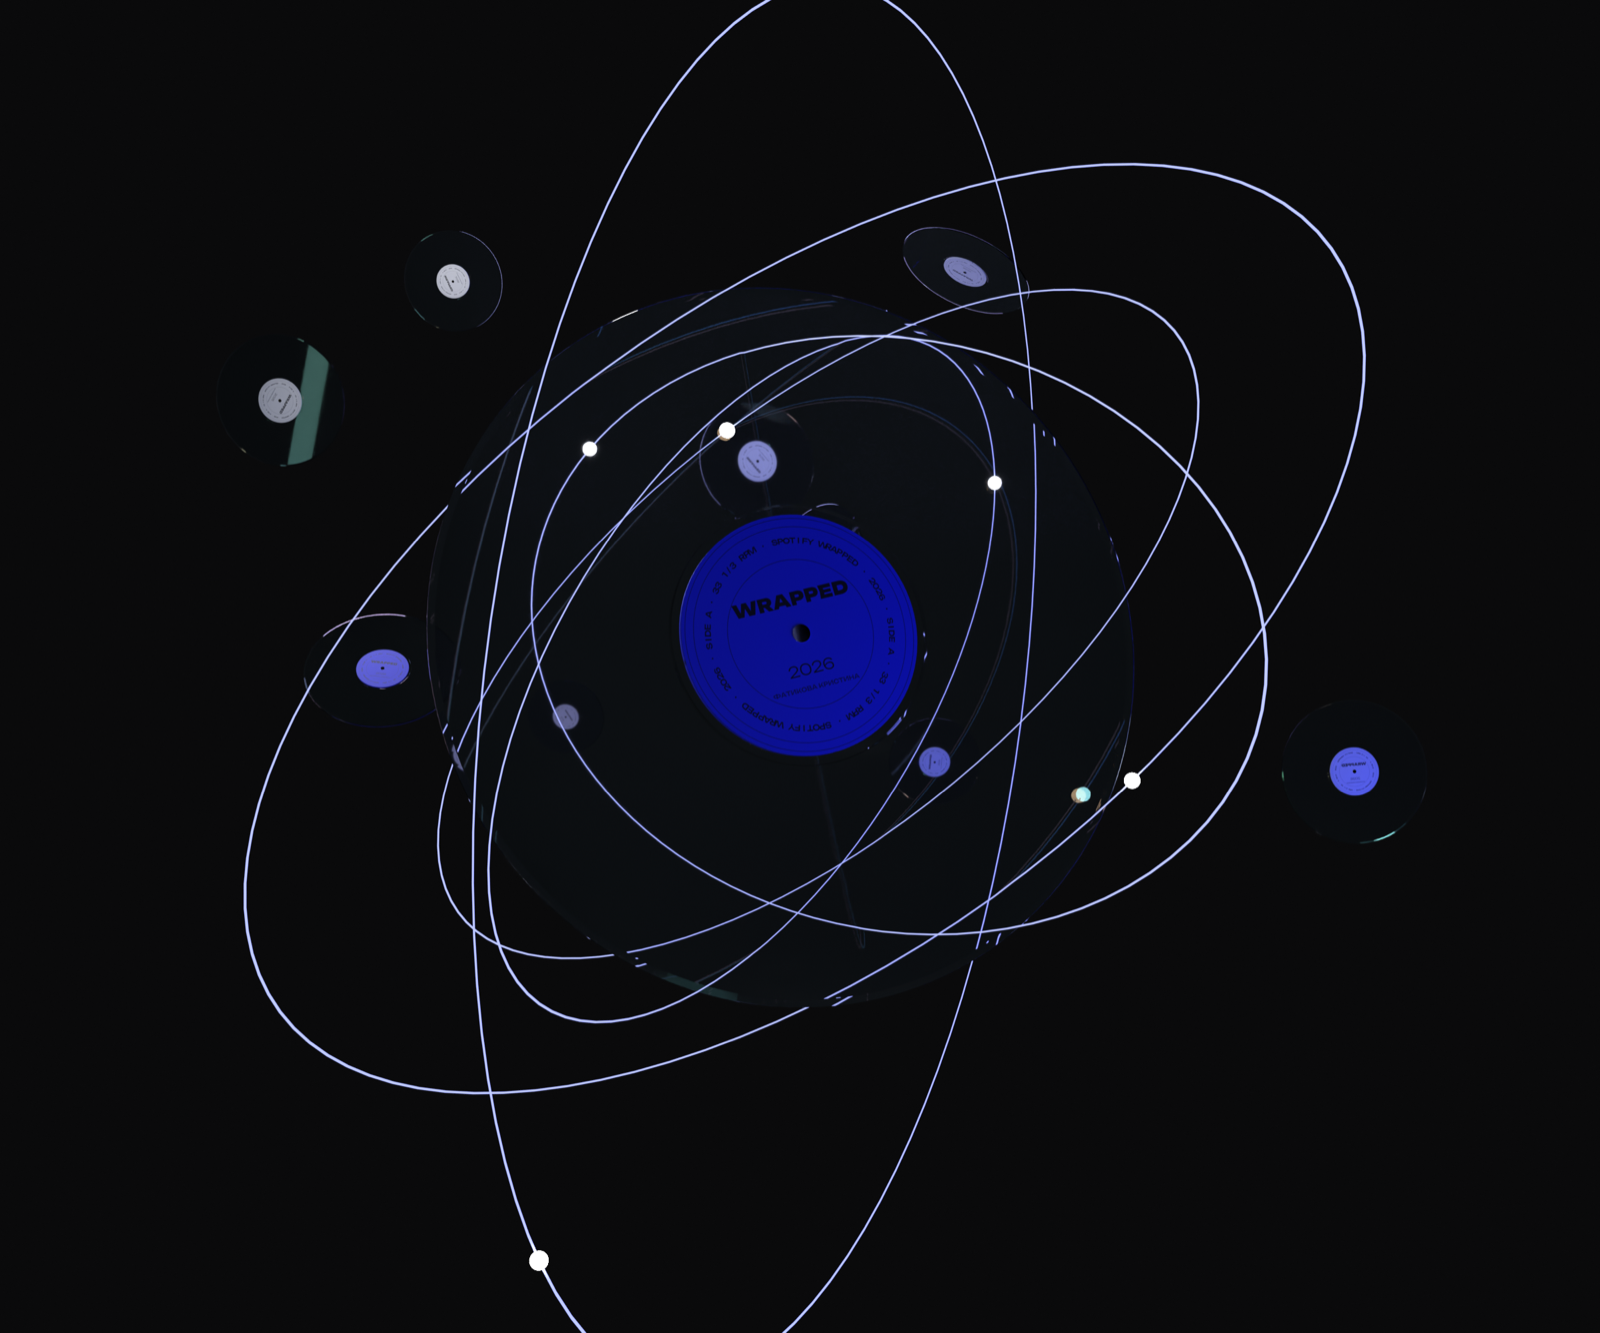
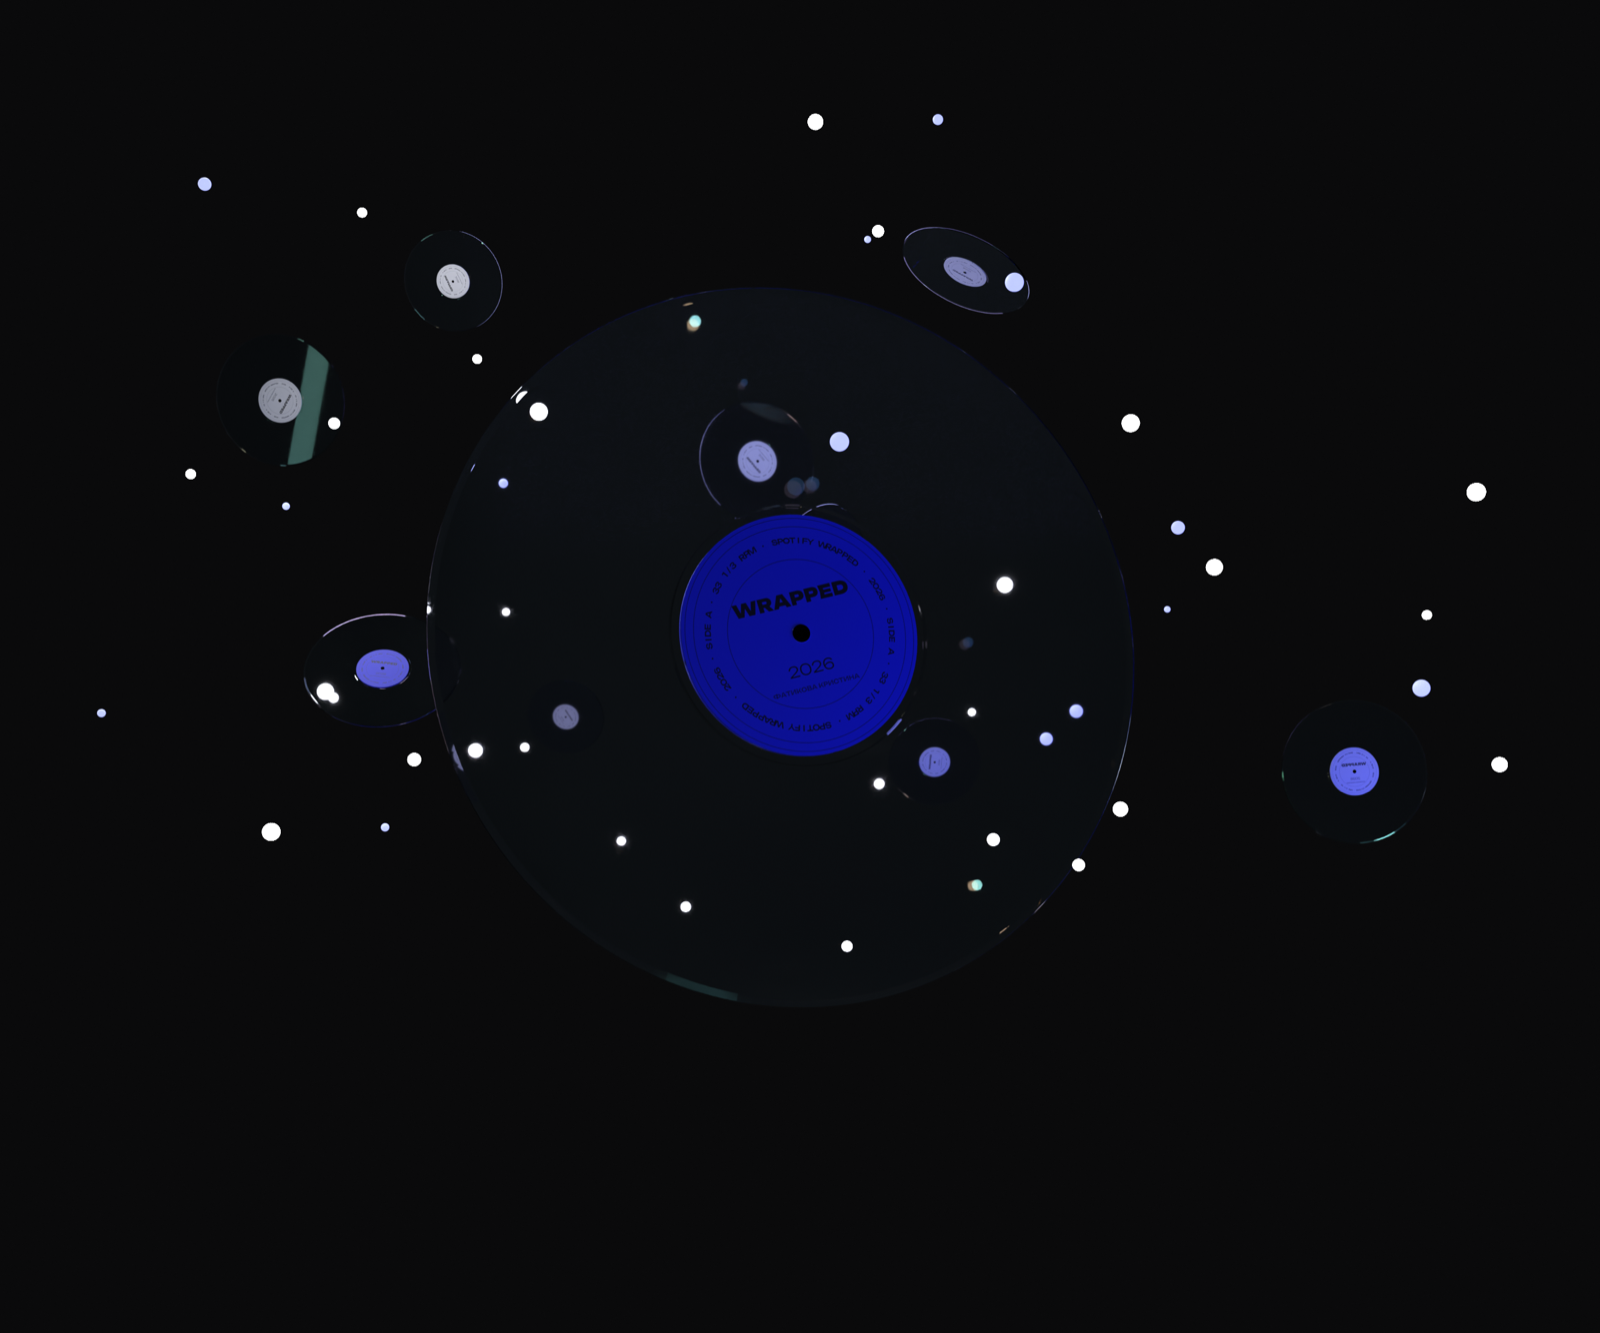
Final: drop orbit lines, more glowing points; livelier drifting cassettes and records

diff --git a/js/chapters/c08_final.js b/js/chapters/c08_final.js
@@ -16,20 +16,17 @@ export class Final extends Chapter {
       return { m, a: r() * 6.28, rx: 0.75 + r() * 0.55, ry: 0.3 + r() * 0.4, z: -1 - r() * 3, s: 0.08 + r() * 0.12, w: (0.12 + r() * 0.2) * (i % 2 ? 1 : -1), q: new THREE.Euler(r() * 6, r() * 6, 0), sp: 0.4 + r() * 1.2 };
     });
     this.spin = 0; this.turn = 0;
-    // memory: glowing orbit threads with sparks running along them
+    // memory: glowing points drifting on invisible orbits around the record
     const dot = document.createElement('canvas'); dot.width = dot.height = 64;
     const g = dot.getContext('2d'), gr = g.createRadialGradient(32, 32, 0, 32, 32, 32);
     gr.addColorStop(0, 'rgba(255,255,255,1)'); gr.addColorStop(0.25, 'rgba(200,206,255,.6)'); gr.addColorStop(1, 'rgba(169,178,255,0)');
     g.fillStyle = gr; g.fillRect(0, 0, 64, 64);
     const glow = new THREE.CanvasTexture(dot);
-    this.threads = Array.from({ length: 5 }, (_, i) => {
-      const curve = new THREE.EllipseCurve(0, 0, 1.25 + i * 0.16, 0.55 + i * 0.1, 0, Math.PI * 2);
-      const pts = curve.getPoints(160).map(p => new THREE.Vector3(p.x, 0, p.y));
-      const line = new THREE.Mesh(new THREE.TubeGeometry(new THREE.CatmullRomCurve3(pts, true), 220, 0.0035, 6, true), new THREE.MeshBasicMaterial({ color: 0xa9b2ff, transparent: true, opacity: 0.45, blending: THREE.AdditiveBlending, depthWrite: false }));
+    this.threads = Array.from({ length: 40 }, (_, i) => {
       const spark = new THREE.Mesh(new THREE.SphereGeometry(0.018, 16, 12), new THREE.MeshBasicMaterial({ color: 0xffffff }));
-      const halo = new THREE.Sprite(new THREE.SpriteMaterial({ map: glow, color: 0xc9ceff, transparent: true, blending: THREE.AdditiveBlending, depthWrite: false })); halo.scale.setScalar(0.16);
-      const grp = new THREE.Group(); grp.add(line, spark, halo); grp.rotation.set(0.3 + i * 0.35, i * 1.1, (i - 2) * 0.25); this.scene.add(grp);
-      return { grp, spark, halo, rx: 1.25 + i * 0.16, rz: 0.55 + i * 0.1, sp: (0.25 + i * 0.07) * (i % 2 ? 1 : -1), ph: i * 1.3 };
+      const halo = new THREE.Sprite(new THREE.SpriteMaterial({ map: glow, color: 0xc9ceff, transparent: true, blending: THREE.AdditiveBlending, depthWrite: false })); halo.scale.setScalar(0.1 + r() * 0.14);
+      const grp = new THREE.Group(); grp.add(spark, halo); grp.rotation.set(r() * 3, r() * 6.28, (r() - 0.5) * 1.2); spark.scale.setScalar(0.5 + r() * 0.9); this.scene.add(grp);
+      return { grp, spark, halo, rx: 0.9 + r() * 1.1, rz: 0.4 + r() * 0.8, sp: (0.15 + r() * 0.35) * (i % 2 ? 1 : -1), ph: r() * 6.28 };
     });
     this.last = [...el.querySelectorAll('.t')].find(t => t.textContent === 'ПАМЯТЬ');
   }
@@ -55,7 +52,7 @@ export class Final extends Chapter {
       th.grp.position.set(b.x, b.y, 0); th.grp.scale.setScalar(R * 1.35 * v);
       th.grp.rotation.y += 0.0015 * Math.sign(th.sp);
       const a = th.ph + T * th.sp; th.spark.position.set(Math.cos(a) * th.rx, 0, Math.sin(a) * th.rz); th.halo.position.copy(th.spark.position);
-      th.halo.material.opacity = 0.6 + Math.sin(T * 3 + th.ph) * 0.4;
+      th.halo.material.opacity = 0.55 + Math.sin(T * 2.4 + th.ph * 3) * 0.45;
     });
     if (this.last) this.last.style.transform = `translate3d(0, ${(1 - p) * 40}px, 0)`;
   }

diff --git a/js/chapters/c03_data.js b/js/chapters/c03_data.js
@@ -62,10 +62,10 @@ export class Data extends Chapter {
         if (f.key !== key) continue;
         const k = clamp((T - f.t0) / 1.2), e2 = easeInOut(k), arc = Math.sin(k * Math.PI);
         f.at.lerpVectors(f.from, f.to, e2);
-        const dx = Math.sin(T * f.sp + f.ph) * 0.025, dy = Math.cos(T * f.sp * 0.8 + f.ph * 1.3) * 0.04;
+        const dx = Math.sin(T * f.sp * 1.6 + f.ph) * 0.06 + Math.sin(T * 0.23 + f.ph * 2) * 0.03, dy = Math.cos(T * f.sp * 1.3 + f.ph * 1.3) * 0.09;
         const S = f.size * U * (key === 'tracks' ? 120 : 110);
         f.m.position.set((f.at.x + dx) * vp.w, c.y + (f.at.y + dy) * H, f.z * S + arc * S * 2.5);
-        this.e.set(f.e.x + Math.sin(T * f.w + f.ph) * 0.25, key === 'artists' ? f.e.y + T * f.w * 1.5 : f.e.y + Math.sin(T * f.w * 0.7) * 0.3, f.e.z + Math.sin(T * f.w * 0.5 + f.ph) * 0.2, 'XZY'); f.m.quaternion.setFromEuler(this.e);
+        this.e.set(f.e.x + Math.sin(T * f.w * 1.4 + f.ph) * 0.45, key === 'artists' ? f.e.y + T * f.w * 2.2 : f.e.y + Math.sin(T * f.w) * 0.5, f.e.z + Math.sin(T * f.w * 0.8 + f.ph) * 0.4, 'XZY'); f.m.quaternion.setFromEuler(this.e);
         if (k > 0 && k < 1) { this.qf.setFromAxisAngle(f.flip, e2 * Math.PI * 2); f.m.quaternion.premultiply(this.qf); }
         f.m.scale.setScalar(Math.max(S * v, 1e-4));
       }

diff --git a/index.html b/index.html
@@ -19,12 +19,12 @@
   "./js/chapters/c00_hero.js": "./js/chapters/c00_hero.js?v=d3c09ff1",
   "./js/chapters/c01_ring.js": "./js/chapters/c01_ring.js?v=22615780",
   "./js/chapters/c02_history.js": "./js/chapters/c02_history.js?v=cf9b9a67",
-  "./js/chapters/c03_data.js": "./js/chapters/c03_data.js?v=b87893c6",
+  "./js/chapters/c03_data.js": "./js/chapters/c03_data.js?v=18ec11fc",
   "./js/chapters/c04_lab.js": "./js/chapters/c04_lab.js?v=3a282fbf",
   "./js/chapters/c05_story.js": "./js/chapters/c05_story.js?v=1e4505a7",
   "./js/chapters/c06_social.js": "./js/chapters/c06_social.js?v=cdd999a7",
   "./js/chapters/c07_algo.js": "./js/chapters/c07_algo.js?v=14c6cdd9",
-  "./js/chapters/c08_final.js": "./js/chapters/c08_final.js?v=77cd9c05",
+  "./js/chapters/c08_final.js": "./js/chapters/c08_final.js?v=e0167bdd",
   "./js/lib/kit.js": "./js/lib/kit.js?v=3eef1286",
   "./js/lib/objects.js": "./js/lib/objects.js?v=15e5d6e6",
   "./js/main.js": "./js/main.js?v=76cc6721",

diff --git a/blender/objects3d.py b/blender/objects3d.py
@@ -553,11 +553,10 @@ def c_final():
     sb.inputs['Emission Color'].default_value = (1, 1, 1, 1); sb.inputs['Emission Strength'].default_value = 25
     MATS['glow'] = glow; MATS['spark'] = spark
     rr = random.Random(8)
-    for k in range(5):
-        t = torus('thread%d' % k, 1.0, 0.0022, 'glow')
-        t.scale = (4.2 + k * 0.55, 1.9 + k * 0.35, 1); t.rotation_euler = (math.radians(70 + k * 12), math.radians(k * 25 - 40), math.radians(k * 63))
-        a = rr.uniform(0, 6.28); sp = Matrix.Rotation(t.rotation_euler.z, 4, 'Z') @ Matrix.Rotation(t.rotation_euler.y, 4, 'Y') @ Matrix.Rotation(t.rotation_euler.x, 4, 'X') @ Vector((math.cos(a) * t.scale.x, math.sin(a) * t.scale.y, 0, 1))
-        bpy.ops.mesh.primitive_uv_sphere_add(radius=0.07, location=sp.xyz); assign(bpy.context.active_object, 'spark')
+    for k in range(42):                                   # glowing points floating around the record
+        a = rr.uniform(0, 6.28); r = rr.uniform(3.4, 7.5)
+        loc = (math.cos(a) * r, rr.uniform(-2, 6), math.sin(a) * r * 0.55 + rr.uniform(-1, 1))
+        bpy.ops.mesh.primitive_uv_sphere_add(radius=rr.uniform(0.035, 0.09), location=loc); assign(bpy.context.active_object, 'spark' if k % 3 else 'glow')
     rng = random.Random(4)
     for i in range(9):
         loc = Vector((rng.uniform(-8, 8), rng.uniform(1, 9), rng.uniform(-4, 4)))
